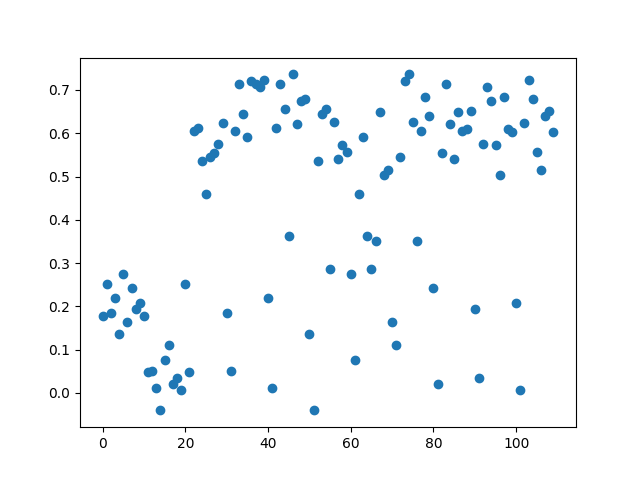
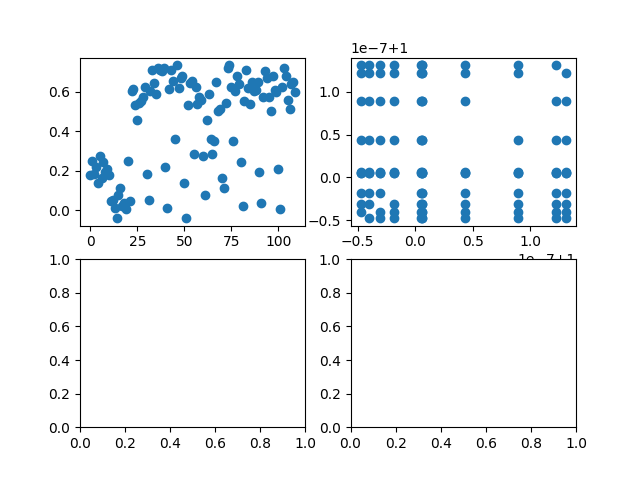
Reformatted files

diff --git a/main.py b/main.py
@@ -1,27 +1,35 @@
-import llm, sqlite3, subprocess, json, collections.abc, os.path
+import collections.abc
+import json
+import llm
+import os.path
+import sqlite3
+import subprocess
+EMBEDDING_DB="embedding.db"
 
-def cosine_similarity(a,b):
+def cosine_similarity(a, b):
     dot_product = sum(x * y for x, y in zip(a, b))
     magnitude_a = sum(x * x for x in a) ** 0.5
     magnitude_b = sum(x * x for x in b) ** 0.5
     return dot_product / (magnitude_a * magnitude_b)
 
+
 def setup():
-    con=sqlite3.connect("embedding.db")
-    cur=con.cursor()
+    con = sqlite3.connect(EMBEDDING_DB)
+    cur = con.cursor()
     cur.execute("create table embedding(file, score)")
     cur.close()
     con.close()
 
+
 def embed(file_name: str) -> None:
-    if "'"  in file_name:
+    if "'" in file_name:
         raise ValueError("file name is a SQL Injection attempt")
-    if subprocess.run(["ls", "embedding.db"],capture_output=True).returncode!=0:
+    if subprocess.run(["ls", EMBEDDING_DB], capture_output=True).returncode != 0:
         setup()
-    file_name=os.path.relpath(file_name)
-    con = sqlite3.connect("embedding.db")
+    file_name = os.path.relpath(file_name)
+    con = sqlite3.connect(EMBEDDING_DB)
     cur = con.cursor()
-    if cur.execute(f"select 1 from embedding where file='{file_name}'").fetchone()!=None:
+    if cur.execute(f"select 1 from embedding where file='{file_name}'").fetchone() is not None:
         cur.close()
         con.close()
         return
@@ -29,47 +37,58 @@ def embed(file_name: str) -> None:
     file = open(file_name)
     vector = embedding_model.embed(file.read())
     file.close()
-    insert="insert into embedding values ('"+file_name+"','"+json.dumps(vector)+"')"
+    insert = "insert into embedding values ('"+file_name+"','"+json.dumps(vector)+"')"
     cur.execute(insert)
     con.commit()
     cur.close()
     con.close()
 
+
 def grep_all_files(*paths: str) -> collections.abc.Iterator[str]:
-    #print(paths)
-    if len(paths)==0:
+    if len(paths) == 0:
         return
-    if len(paths)!=1:
+    if len(paths) != 1:
         for path in paths:
             yield from grep_all_files(path)
-    path=os.path.abspath(paths[0])
+    path = os.path.abspath(paths[0])
     if os.path.isdir(path):
-        ls_result=subprocess.run(["ls",path],capture_output=True).stdout.decode("utf8").strip().split("\n")
+        ls_result = subprocess.run(["ls", path], capture_output=True).stdout.decode("utf8").strip().split("\n")
         for rel_path in ls_result:
-            yield from grep_all_files(os.path.join(path,rel_path))
+            yield from grep_all_files(os.path.join(path, rel_path))
     if os.path.isfile(path):
         yield path
 
+
 def plot() -> None:
     import matplotlib.pyplot
-    figure, axes= matplotlib.pyplot.subplots()
-    data=[]
-    con = sqlite3.connect("embedding.db")
+    data = []
+    con = sqlite3.connect(EMBEDDING_DB)
     cur = con.cursor()
-    result = cur.execute("select e1.file, e1.score, e2.file, e2.score from embedding e1 cross join embedding e2 where e1.file!=e2.file")
+    magnitude_x = []
+    magnitude_y = []
+    result = cur.execute("select e1.file, e1.score, e2.file, e2.score from embedding e1" +
+                         " cross join embedding e2 where e1.file!=e2.file")
     for (file1, score1, file2, score2) in result:
-        data.append(cosine_similarity(json.loads(score1),json.loads(score2)))
+        array1 = json.loads(score1)
+        array2 = json.loads(score2)
+        data.append(cosine_similarity(array1, array2))
+        magnitude_x.append(sum(x*x for x in array1))
+        magnitude_y.append(sum(x*x for x in array2))
     cur.close()
     con.close()
-    axes.scatter(range(len(data)),data)
+    _figure, axes = matplotlib.pyplot.subplots(2, 2)
+    axes[0, 0].scatter(range(len(data)), data)
+    axes[0, 1].scatter(magnitude_x, magnitude_y)
     matplotlib.pyplot.savefig("embedding_visualized.png")
     matplotlib.pyplot.show()
 
+
 def main():
-    for path in grep_all_files("data","scraping/textfiles"):
+    for path in grep_all_files("data", "scraping/textfiles"):
         embed(path)
     plot()
     # subprocess.run(["rm","embedding.db"])
+
 
 if __name__ == "__main__":
     main()

diff --git a/scraping/scraper.py b/scraping/scraper.py
@@ -9,19 +9,21 @@ dir_path = os.path.dirname(os.path.realpath(__file__))
 def get_last_url_part(url: str):
     url_path = Path(urllib.parse.urlparse(url).path)
     return url_path.name
-    
-def wiki_to_txt(infile) -> None:
+
+
+def wiki_to_txt(_infile) -> None:
     with open("wikipedialist.csv") as infile:
         wikiurls = infile.read().split("\n")
 
     for url in wikiurls:
         if len(url) > 0:
-            response = requests.get( url=url )
+            response = requests.get(url=url)
             soup = BeautifulSoup(response.content, 'html.parser')
             outfile = get_last_url_part(url) + ".txt"
-            with open(os.path.join(dir_path,"textfiles",outfile), "w") as of:
+            with open(os.path.join(dir_path, "textfiles", outfile), "w") as of:
                 of.write(soup.get_text())
+
 
 if __name__ == "__main__":
     print(get_last_url_part("https://thewalrus.ca/the-ethnic-vote-is-a-myth"))
-    wiki_to_txt(os.path.join(dir_path,"wikipedialist.csv"))
+    wiki_to_txt(os.path.join(dir_path, "wikipedialist.csv"))
